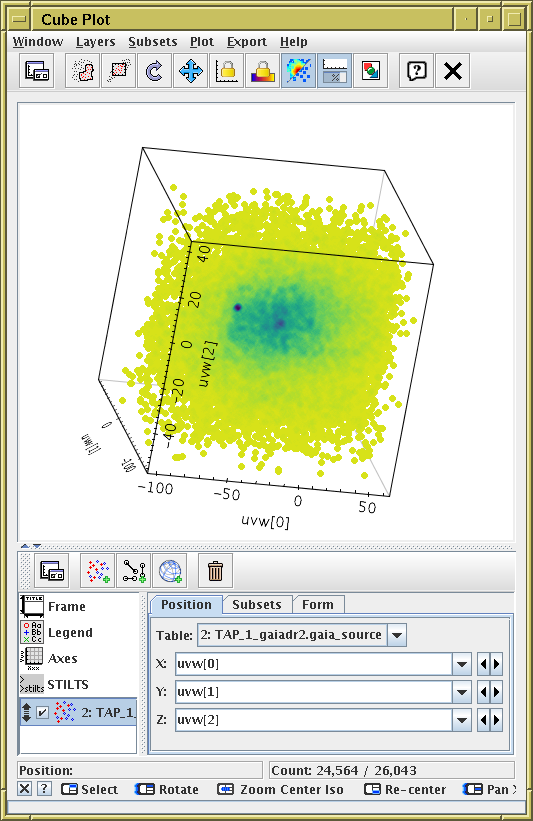
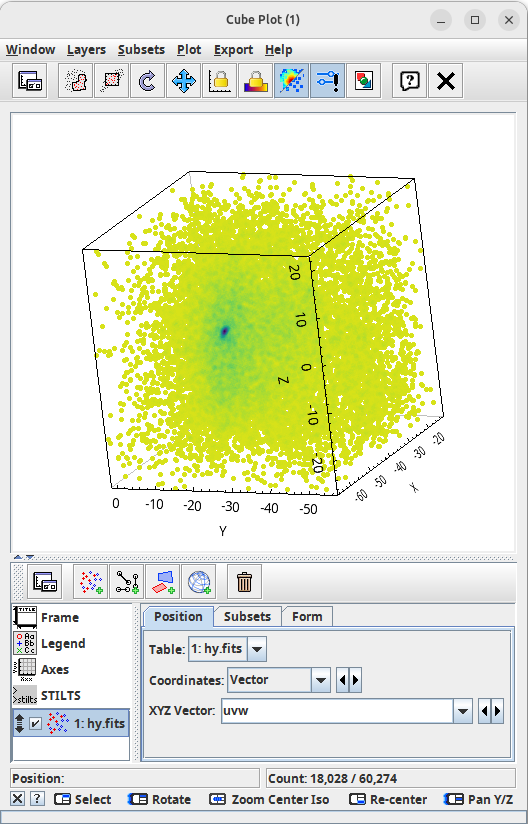
updates for later topcat/stilts versions
Topcat 4.9-1 allows selection of 3-vectors rather than vector
components for the cube plot, so make use of that.

Also remove a note about a documentation bug that was fixed
at stilts 3.4-1.

diff --git a/tctuto.tex b/tctuto.tex
@@ -51,9 +51,9 @@
 
 \begin{description}
   \item[TOPCAT:] \turl{http://www.starlink.ac.uk/topcat/}
-                 {\em (version 4.7 or later recommended)}
+                 {\em (version 4.9-1 or later recommended)}
   \item[STILTS:] \turl{http://www.starlink.ac.uk/stilts/}
-                 {\em (version 3.2 or later recommended)}
+                 {\em (version 3.4-1 or later recommended)}
   \item[Mailing list:] {\tt topcat-user@jiscmail.ac.uk}
   \item[Version:] {\tt \input{version}}
 \end{description}
@@ -367,13 +367,10 @@ TOPCAT's {\em expression language\/} can help.
   \begin{enumerate}
   \item Plot points in 3-d space:
         \mb{plot2cube.png}{Graphics}{Cube Plot},
-        \entry{X}{uvw[0]},
-        \entry{Y}{uvw[1]},
-        \entry{Z}{uvw[2]}.
+        \entry{Coordinates}{Vector},
+        \entry{XYZ Vector}{uvw}.
         Note, you can type in any expression for the plot coordinates,
         you don't have to just select from available columns.
-        The {\tt uvw} column itself doesn't appear in the selection list,
-        since it's not a scalar.
   \item Select \entry{Mode}{\buttimg{MODE_DENSITY.png}density}
         in the \lab{Form} tab.  You can change the colour map to taste
         using the \lab{Density Shader} selector.
@@ -723,8 +720,6 @@ for later batch use like this is a common pattern of work.
       stilts cone help
       \end{verbatim}
       \postverb
-      There is a documentation bug! (STILTS v3.4); the {\tt out} parameter
-      is also required to give an output file
 \item Find out the cone search parameters we used in \ref{sec:m4-cone}.
       This includes the service URL (from the \lab{Cone URL} field)
       and the central RA (longitude) and Dec (latitude) parameters of M4,
